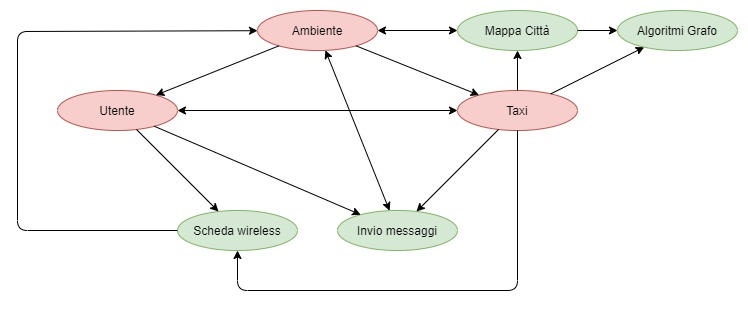
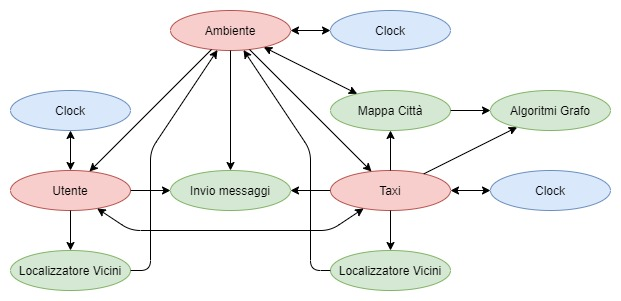
Relazione | Arc.fisica - moduli

diff --git a/relazione/progetto.tex b/relazione/progetto.tex
@@ -21,25 +21,33 @@ Qui di seguito sono descritti i vari moduli che si intende implementare per il p
 	\item Modulo per l'algoritmo di elezione del leader: implementa la funzionalità della scelta della macchina da assegnare all'utente.
 	\item Modulo interfaccia cliente-servizio: rappresenta l'app che utilizzerebbe l'utente per usufruire del servizio. In tal senso, fornisce le operazioni che un cliente può richiedere al sistema e comunica all'entità cliente gli eventuali messaggi. Il modulo di gestione del taxi comunica a questo modulo gli eventuali cambi di stato.
 	\item Modulo gestione macchine: fornisce i metodi per ricaricare le batterie delle macchine, ne gestiscono gli incidenti, movimento e gestione eventi.
+	\item Modulo gestione tempo: simula un orologio utilizzato per la gestione degli spostamenti e timeout.
 \end{itemize}
 
-Le relazioni e le dipendenze tra di essi sono presenti alle immagini \ref{fig:schema_moduli_livello_0} e \ref{fig:schema_moduli_livello_1}.
-In questi schemi le bolle rappresentano i suddetti moduli, sono colorate di rosso per gli attori, ossia i moduli principali, e di verde per i moduli secondari in quanto fornitori di funzionalità. Gli archi indicano una relazione di dipendenza con questa semantica: un arco che parte da A e arriva in B indica che A conosce B e che vi comunica.
+Le relazioni e le dipendenze tra di essi sono presenti all'immagine \ref{fig:schema_moduli_livello_0}. Le immagini \ref{fig:schema_moduli_livello_1} e \ref{fig:schema_moduli_livello_2} ne approfondiscono il significato.
+
+In questi schemi le bolle rappresentano i suddetti moduli: sono colorate di rosso per gli attori, ossia i moduli principali, e di verde per i fornitori di funzionalità, ossia i moduli secondari. La bolla ``clock'' indica il modulo gestione tempo ed è stata colorata in azzurro  poiché non fornisce nessun'altra funzionalità al di là del comunicare lo scorrere del tempo.  
+
+Gli archi indicano una relazione di dipendenza con questa semantica: un arco che parte da una bolla A e arriva in una bolla B indica che A conosce B e che vi comunica. Si noti che la relazione non è simmetrica. Nel caso di relazione tra un attore e un fornitore di funzionalità, la comunicazione si intende come ``utilizzo dei servizi offerti'', mentre nel caso della relazione attore-attore si intende ``effettua scambi di messaggi''.
+
 \begin{figure}[htbp]
 	\centering
-	\includegraphics[width=10cm]{schema_moduli_livello_0.jpg}
+	\includegraphics[width=15cm]{schema_moduli_livello_0.jpg}
 	\caption{Dipendenze tra i moduli livello 0}
 	\label{fig:schema_moduli_livello_0}
 \end{figure}
+
 
 L'immagine \ref{fig:schema_moduli_livello_1} specializza le relazioni precedentemente definite incorporando i restanti moduli. In giallo sono state colorate le bolle che specializzano le entità Utente e Taxi.
 
 \begin{figure}[htbp]
 	\centering
-	\includegraphics[width=12cm]{schema_moduli_livello_1.jpg}
+	\includegraphics[width=15cm]{schema_moduli_livello_1.jpg}
 	\caption{Dipendenze tra i moduli livello 1}
 	\label{fig:schema_moduli_livello_1}
 \end{figure}
+
+\newpage
 
 \section{Automi Coinvolti} \label{automi}
 
@@ -86,7 +94,7 @@ Le relazioni tra automi e moduli definiti precedentemente alla sezione \ref{modu
 
 \begin{figure}[htbp]
 	\centering
-	\includegraphics[width=13cm]{schema_moduli_livello_2.jpg}
+	\includegraphics[width=15cm]{schema_moduli_livello_2.jpg}
 	\caption{Dipendenza tra moduli e automi}
 	\label{fig:schema_moduli_livello_2}
 \end{figure}
@@ -271,48 +279,17 @@ All'appendice \ref{messaggi_scambiati_appendix}, sono presenti i diagrammi di se
 	\item Aggiornamento della mappa della città mentre il taxi è occupato con un utente e ne ha altri nella coda \ref{fig:messaggi_macchina_aggiornamento_mappa_clienti}.
 \end{itemize}
 
-
 \section{Architettura fisica e Distribuzione} \label{arch_fisica}
-Per l'implementazione fisica del progetto, è necessario che ogni automobile elettrica sia dotata di una scheda Wi-Fi per la comunicazione con i veicoli vicini. Il cliente per poter comunicare con il sistema necessita di utilizzare un'applicazione dedicata per le prenotazioni. Si suppone esista già la mappa della città nel formato adatto, ogni automobile deve possederne una copia nel disco locale. Un altro requisito hardware è che le macchine dispongano di sufficiente potenza di calcolo per effettuare velocemente il calcolo dei percorsi.
+Per l'implementazione fisica del progetto, è necessario che ogni automobile elettrica sia dotata di una scheda Wi-Fi per la comunicazione. Il cliente per poter usufruire del sistema necessita di utilizzare un'applicazione dedicata dal suo smartphone per le prenotazioni. Si suppone esista già la mappa della città nel formato adatto, ogni automobile ne deve possedere una copia nel disco locale. Un altro requisito hardware è che le macchine dispongano di sufficiente potenza computazionale per effettuare velocemente il calcolo dei percorsi. Si assume inoltre che sia già presente un'interfaccia che fornisca le primitive per lo spostamento della macchina: esse vengono utilizzate dall'automa movimento interno al modulo di gestione del taxi.
 
 I moduli descritti nella sezione \ref{modules} sono associati ai componenti fisici in questo modo:
-I moduli per le operazioni sui grafi, la scheda wireless, operazioni mappa città, gestione macchine, elezione del leader sono legati ai taxi e il modulo entità macchina ne rappresenta una sua astrazione.
-
-Il modulo per l'interfaccia cliente-servizio è legato all'utente, esso infatti deve conoscere soltanto questo modulo per utilizzare il servizio, il modulo utente ne rappresenta una sua astrazione.
-
-il "modulo per l'invio dei messaggi" è utilizzato da tutti i componenti, in quanto l'invio di un qualsiasi messaggio viene analizzato dai metodi di questo modulo.
-
-I moduli per le operazioni sui grafi, operazioni mappa città, gestione macchine, comunicazione ambiente-entità, creazione entità vengono usati dall'ambiente, il quale però, si ricorda, non ha nessuna rappresentazione nei componenti fisici del sistema.
-
-una descrizione delle dipendenze fra i moduli verrà rappresentata da un grafo...
-
-\begin{itemize} 
-	
-	\item Modulo algoritmi grafi: fornisce gli algoritmi che è possibile utilizzare sui grafi. Per esempio include Dijkstra, BFS, DFS, aggiungi nodo, aggiungi arco, ... 
-	
-	\item Modulo per l'algoritmo di elezione del leader: implementa la funzionalità della scelta della macchina da assegnare all'utente.
-	
-	\item Modulo per l'invio di messaggi: controlla che il messaggio sia ben formato.
-	
-	\item Modulo interfaccia cliente-servizio: fornisce le possibili operazioni che un cliente può richiedere al sistema.
-	
-	\item Modulo scheda wireless: simula la scheda di rete che fornisce i vicini dell'entità che ne invoca i metodi.
-	
-	\item Modulo mappa città: fornisce i metodi di lettura e modifica della mappa della città.
-	
-	\item Modulo gestione macchine: fornisce i metodi per ricaricare le batterie delle macchine, ne gestiscono gli incidenti e le riparazioni.
-	
-	\item Modulo creazione entità: fornisce le primitive per creare nuove macchine e nuovi utenti.
-	
-	\item Modulo comunicazione Ambiente-Entità: il processo Ambiente può utilizzare i metodi in questo modulo per simulare il mondo reale.
-	
-	\item Modulo Entità Macchina: rappresenta l'astrazione dell'entità veicolo.
-	
-	\item Modulo Entità Utente: rappresenta l'astrazione dell'entità utente.
-	
-	\item Modulo Entità Ambiente : rappresenta l'astrazione dell'entità ambiente.
-	
-	L'associazione fra i componenti fisici del sistema con i suddetti moduli e le varie dipendenze fra questi sono riportate nella sezione \ref{arch_fisica}.
+\begin{itemize}
+	\item Il modulo utilizzato per la comunicazione da parte delle entità è composto da due parti: modulo ``localizzatore vicini'', dedito alla ricerca delle vicine entità, e modulo ``invio messaggi'', il cui scopo è controllare la buona formattazione dei dati da inviare e la spedizione stessa.
+	\item Il modulo ``gestione tempo'', interno ad ogni entità del sistema, rappresenta l'orologio interno del dispositivo.
+	\item Per quanto riguarda l'entità ``Utente'' descritta all'inizio del capitolo, l'omonimo modulo ne rappresenta un'astrazione e pertanto non possiede una controparte fisica. Il modulo ``interfaccia cliente-servizio'' corrisponde all'applicazione sullo smartphone dell'utente.
+	\item I moduli ``mappa città'' e ``algoritmi grafo'' modellano il navigatore interno che permette l'accesso alla mappa precedentemente nominata e il calcolo dei percorsi.
+	\item Il modulo ``gestione macchina'' contiene gli automi che permettono il funzionamento intelligente del taxi, come avverrebbe nel mondo reale.
+	\item Il modulo ``elezione'' viene utilizzato dal corrispondente automa, pertanto non ha una controparte fisica.
 \end{itemize}
 
 \section{Piano di Sviluppo}
